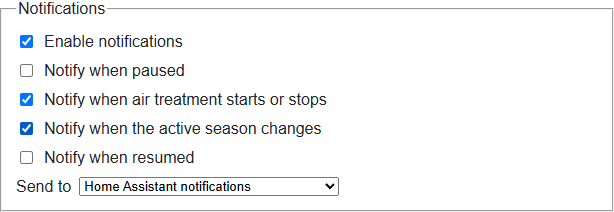
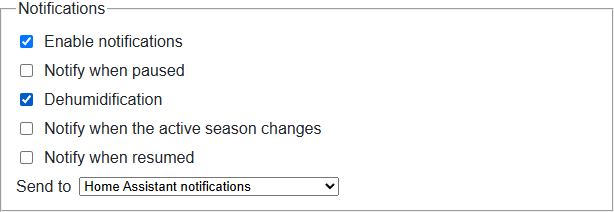
Select Timeline notifications per enabled feature (refs #34)

Changed region(s): [[0.0309, 0.4245, 0.557, 0.5094], [0.0309, 0.566, 0.0619, 0.6509]]

diff --git a/thermostat-pro-timeline.js b/thermostat-pro-timeline.js
@@ -198,7 +198,9 @@ const TT_I18N = {
   'pause.no_control': 'No pause control',
   'editor.tabs.notifications': 'Notifications',
   'notifications.enable': 'Enable notifications',
-  'notifications.treatment': 'Notify when air treatment starts or stops',
+  'notifications.purify': 'Air purification',
+  'notifications.dry': 'Dehumidification',
+  'notifications.mist': 'Humidification',
   'notifications.season': 'Notify when the active season changes',
   'pause.notifications': 'Pause notifications',
   'pause.notify_require': 'Shared storage and automatic application must be enabled for notifications.',
@@ -485,7 +487,9 @@ const TT_I18N = {
   'pause.notify_require': 'Aktivér fælles lagring og automatisk anvendelse for at modtage beskeder.',
   'editor.tabs.notifications': 'Beskeder',
   'notifications.enable': 'Aktivér beskeder',
-  'notifications.treatment': 'Giv besked, når luftbehandling starter eller stopper',
+  'notifications.purify': 'Luftrensning',
+  'notifications.dry': 'Affugtning',
+  'notifications.mist': 'Befugtning',
   'notifications.season': 'Giv besked ved sæsonskift',
   'pause.notifications': 'Pausebeskeder',
   'pause.no_control': 'Ingen pausekontakt',
@@ -9899,7 +9903,9 @@ class ThermostatTimelineCard extends HTMLElement {
                     <label><input type="checkbox" class="notify-enabled"> ${this._t('notifications.enable')}</label>
                     <p class="notify-require">${this._t('pause.notify_require')}</p>
                     <label><input type="checkbox" class="notify-paused"> ${this._t('pause.notify_paused')}</label>
-                    <label><input type="checkbox" class="notify-treatment"> ${this._t('notifications.treatment')}</label>
+                    <label><input type="checkbox" class="notify-purify"> ${this._t('notifications.purify')}</label>
+                    <label><input type="checkbox" class="notify-dry"> ${this._t('notifications.dry')}</label>
+                    <label><input type="checkbox" class="notify-mist"> ${this._t('notifications.mist')}</label>
                     <label><input type="checkbox" class="notify-season"> ${this._t('notifications.season')}</label>
                     <label><input type="checkbox" class="notify-resumed"> ${this._t('pause.notify_resumed')}</label>
                     <label>${this._t('pause.destination')} <select class="settings-input pause-destination"></select></label>
@@ -17219,24 +17225,26 @@ class ThermostatTimelineCard extends HTMLElement {
       const q = selector => page.querySelector(selector);
       const rule = d.pause_notifications;
       const available = this._config.storage_enabled && d.auto_apply;
-      const events = ['paused', 'resumed', 'treatment', 'season'];
+      const airEvents = ['purify', 'dry', 'mist'];
+      const events = ['paused', 'resumed', 'season', ...airEvents];
+      const selected = event => rule[event] ?? (airEvents.includes(event) && !!rule.treatment);
       const master = q('.notify-enabled');
-      master.checked = rule.enabled ?? events.some(event=>rule[event]);
+      master.checked = rule.enabled ?? events.some(selected);
       master.disabled = !available;
       master.onchange = ()=>{rule.enabled=master.checked;this._renderNotificationsTab();};
       q('.notify-require').hidden = available;
       const active = available && master.checked;
-      const treatment = d.entities.some(room=>{
+      const hasTreatment = event => d.entities.some(room=>{
         const r=d.air_rooms?.[room];
         return r?.treatment && d.apply_enabled?.[room]!==false &&
-          ['purify','dry','mist'].some(k=>r[k+'_sensor'] && r[k+'_device']);
+          r[event+'_sensor'] && r[event+'_device'];
       });
       for (const event of events) {
         const input = q('.notify-' + event);
-        const visible = active && (event!=='season' || d.seasonal_enabled) && (event!=='treatment' || treatment);
+        const visible = active && (event!=='season' || d.seasonal_enabled) && (!airEvents.includes(event) || hasTreatment(event));
         input.closest('label').style.display=visible?'':'none';
         input.disabled=!visible;
-        input.checked = !!rule[event];
+        input.checked = !!selected(event);
         input.onchange = () => { rule[event] = input.checked; };
       }
       const dest = q('.pause-destination');

diff --git a/tests/test_room_air.py b/tests/test_room_air.py
@@ -61,6 +61,26 @@ class RoomAirTests(unittest.IsolatedAsyncioTestCase):
         manager._send_pause_notification.assert_awaited_once()
         self.assertIn("stopped", self.air.log[room][-1]["reason"])
 
+    async def test_notifications_follow_each_treatment_choice(self):
+        rule = {}
+        settings = {"pause_notifications": {"enabled": True, "treatment": True,
+                                           "dry": True, "purify": False, "mist": False}}
+        manager = SimpleNamespace(_send_pause_notification=AsyncMock())
+        devices = []
+        for kind, domain, value in (("purify", "fan", "25"), ("dry", "humidifier", "70"),
+                                    ("mist", "humidifier", "30")):
+            entity, sensor = domain + "." + kind, "sensor." + kind
+            rule.update({kind + "_device": entity, kind + "_sensor": sensor})
+            self.states[sensor] = SimpleNamespace(state=value, attributes={}, name=kind)
+            self.states[entity] = SimpleNamespace(state="off")
+            devices.append(entity)
+        await self.air.treat_air(manager, settings, "room", "room", rule, self.now)
+        for entity in devices:
+            self.states[entity].state = "on"
+        await self.air.treat_air(manager, settings, "room", "room", rule, self.now)
+        manager._send_pause_notification.assert_awaited_once()
+        self.assertIn("Dehumidifier started", manager._send_pause_notification.await_args.args[1])
+
     async def test_humidifier_and_purifier_use_opposite_thresholds(self):
         manager = Mock()
         for kind, domain, value in (("purify", "fan", "21"), ("mist", "humidifier", "39")):

diff --git a/custom_components/thermostat_timeline/room_air.py b/custom_components/thermostat_timeline/room_air.py
@@ -519,7 +519,7 @@ class RoomAir:
                 del self.log[key][:-50]
                 self.write = True
                 notifications = settings.get("pause_notifications") or {}
-                if notifications.get("enabled") is not False and notifications.get("treatment"):
+                if notifications.get("enabled") is not False and notifications.get(kind, notifications.get("treatment")):
                     await mgr._send_pause_notification(notifications, message)
             demand = value <= start if kind == "mist" else value >= start
             clear = value >= stop if kind == "mist" else value <= stop

diff --git a/docs/card/features/notifications.md b/docs/card/features/notifications.md
@@ -6,11 +6,11 @@ The switch requires shared storage and automatic application. Switching it off s
 
 ## Air treatment and seasonal changes
 
-The air treatment option appears when an active room has sensor-controlled air treatment enabled with a device and sensor selected. After a commanded transition is confirmed, the message includes the room and triggering reading. For example, the basement dehumidifier starts when its humidity sensor reports 62%. See [sensor-controlled air treatment](room-air.md#start-air-treatment-from-sensor-readings).
+Select **Air purification**, **Dehumidification** and **Humidification** independently. Each choice appears when at least one active room has a sensor and device configured for that function. For example, select only **Dehumidification** to receive the basement dehumidifier's start and stop messages. Leave **Notify when the active season changes** unchecked to keep seasonal switches silent. The master switch remembers these individual choices when you switch it off and on again. After a commanded transition is confirmed, the message includes the room and triggering reading. For example, the basement dehumidifier starts when its humidity sensor reports 62%. See [sensor-controlled air treatment](room-air.md#start-air-treatment-from-sensor-readings).
 
 Enable summer/winter schedules to see the season option. With that event selected, switching from Winter to Summer sends one message. Return to **Notifications** after editing another tab to see which events are available.
 
-[![Sensor and seasonal events selected on the Notifications tab](../../images/air-season-notifications-result.png)](../../images/air-season-notifications.gif)
+[![Dehumidification selected with seasonal alerts switched off](../../images/air-season-notifications-result.png)](../../images/air-season-notifications.gif)
 
 [Play walkthrough](../../images/air-season-notifications.gif) | [Full-size GIF](../../images/air-season-notifications.gif)
 

diff --git a/docs/card/features/index.md b/docs/card/features/index.md
@@ -548,7 +548,7 @@ Choose what you want your heating to do. Open a guide for the setup steps and th
 
 -   **[Air treatment and seasonal notifications](notifications.md#air-treatment-and-seasonal-changes)**
 
-    Send a message when a device confirms a change or the active season switches.
+    Select separate alerts for purification, dehumidification, humidification and season changes.
 
     [![Choose notification events](../../images/air-season-notifications-result.png)](../../images/air-season-notifications.gif)
 
